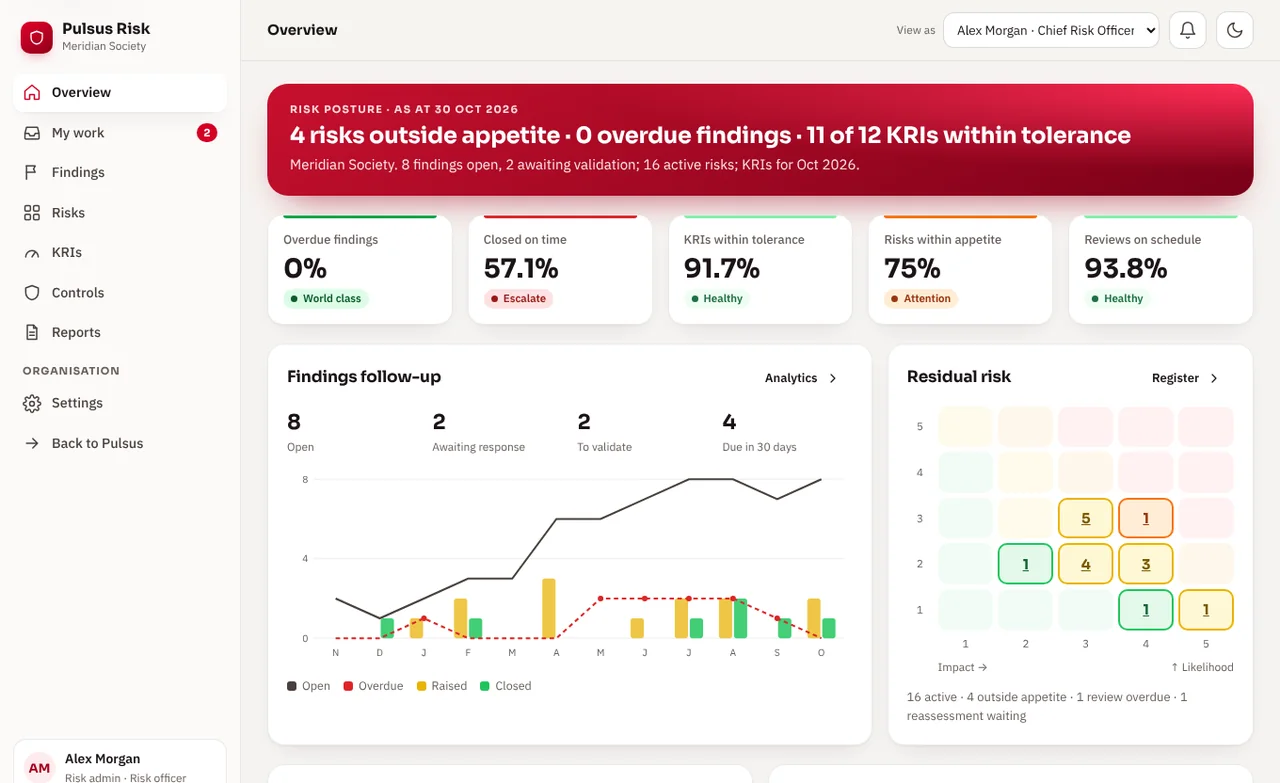
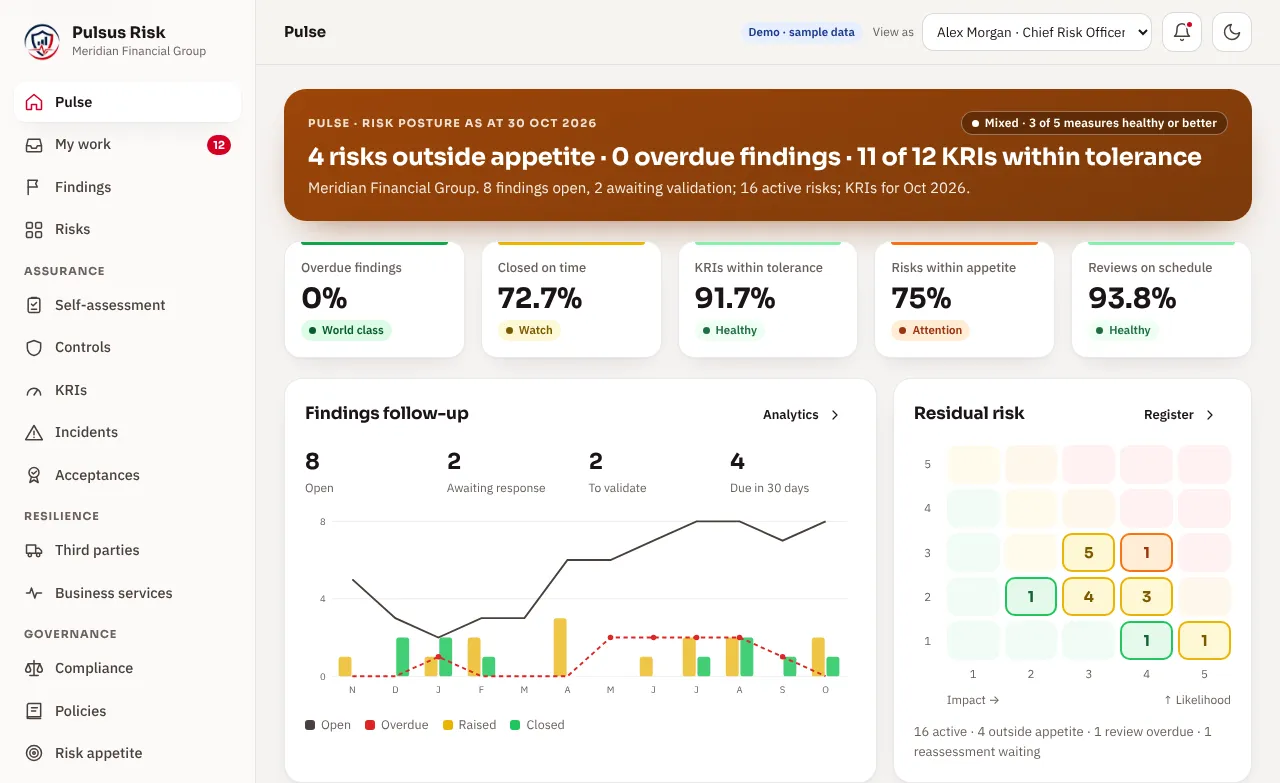
Risk Plans & features: fresh demo screenshots
Claude-Session: https://claude.ai/code/session_01Uwm6ZkpR3p9E4rJsdbscVQ

diff --git a/sites/risk/plans/index.html b/sites/risk/plans/index.html
@@ -195,13 +195,13 @@ main{overflow-x:clip}
  <div><p class="k">What's at stake</p><h2 id="st-h">When a limit is breached, <span>someone will ask who knew.</span></h2>
   <p class="sl">Good risk management is not only knowing the answer. It is being able to show, at any moment, that you knew, that someone owned it, and what was done.</p>
   <ul class="stakes"><li><b>Auditors, inspectors and regulators</b><p>They expect a current view of key risks and a clear record of every finding: who owns it, when it is due, the evidence, and who checked it.</p></li><li><b>The board and its committees</b><p>Members need the same picture every time, judged the same way, not a new deck with new definitions each meeting.</p></li><li><b>Time and exposure</b><p>Every month a finding sits open past its date is a month of exposure. Seeing it early is cheaper than explaining it later.</p></li></ul></div>
- <figure class="rv" style="margin:0"><div class="phonebox"><img src="/sites/risk/assets/p-phone-evidence.webp" width="520" height="789" loading="lazy" decoding="async" alt="A finding on a phone, demonstration data: manual fallback procedures not tested at two branches, in remediation. The owner has ticked off both fallback drills and added a photo as evidence before submitting."></div><figcaption class="shotcap">The owner answers from the floor. Demonstration data.</figcaption></figure>
+ <figure class="rv" style="margin:0"><div class="phonebox"><img src="/sites/risk/assets/p-phone-evidence.webp" width="520" height="789" loading="lazy" decoding="async" alt="A finding on a phone, demonstration data: dealer limits not enforced by the system, high rating, in remediation, with the owner's request to extend the due date waiting for a decision."></div><figcaption class="shotcap">The owner answers from the floor. Demonstration data.</figcaption></figure>
 </section>
 
 <section class="sec" id="features" aria-labelledby="ft-h">
  <p class="k">Features</p><h2 id="ft-h">One register. <span>Every lens on risk.</span></h2>
  <p class="sl">Risks, findings and key risk indicators in one place, linked to each other and to the controls that manage them. Each person sees the part they are responsible for.</p>
- <div class="show"><div class="tabs" role="tablist" aria-label="Pulsus Risk features"><button class="tab" role="tab" id="t-overview" aria-controls="p-overview" aria-selected="true">Overview<small>The whole position, at a glance</small></button><button class="tab" role="tab" id="t-register" aria-controls="p-register" aria-selected="false" tabindex="-1">Risk register<small>Inherent, residual and target</small></button><button class="tab" role="tab" id="t-findings" aria-controls="p-findings" aria-selected="false" tabindex="-1">Findings<small>Audit, regulator, compliance</small></button><button class="tab" role="tab" id="t-kris" aria-controls="p-kris" aria-selected="false" tabindex="-1">Key risk indicators<small>Target, tolerance and limit</small></button><button class="tab" role="tab" id="t-appetite" aria-controls="p-appetite" aria-selected="false" tabindex="-1">Risk appetite<small>From indicator to the board</small></button><button class="tab" role="tab" id="t-mywork" aria-controls="p-mywork" aria-selected="false" tabindex="-1">My work<small>Each person&rsquo;s own inbox</small></button></div><div><div class="panel" role="tabpanel" id="p-overview" aria-labelledby="t-overview" tabindex="0"><p class="no">01 / 06<span class="demo-tag">Demonstration data</span></p><h3>Overview</h3><p>Risks outside appetite, overdue findings and key risk indicators within tolerance, in one line at the top. Below it, findings follow-up month by month and the residual heat-map: click a cell to see the risks in it.</p><div class="shot"><div class="bar" aria-hidden="true"><i></i><i></i><i></i><span>Pulsus Risk · Overview</span></div><img src="/sites/risk/assets/p-overview.webp" width="1280" height="783" decoding="async" alt="The overview, demonstration data, as at 30 October 2026: 4 risks outside appetite, 0 overdue findings and 11 of 12 key risk indicators within tolerance; overdue findings 0%, closed on time 57.1%, KRIs within tolerance 91.7%, risks within appetite 75% and reviews on schedule 93.8%, with a findings follow-up chart and a 5 by 5 residual risk heat-map."></div><ul class="ticks"><li><b>Clickable heat-map</b>, likelihood × impact.</li><li><b>Ageing</b> and on-time closure for findings.</li><li><b>Committee pack</b> in PDF and Excel.</li></ul></div><div class="panel" role="tabpanel" id="p-register" aria-labelledby="t-register" tabindex="0" hidden><p class="no">02 / 06<span class="demo-tag">Demonstration data</span></p><h3>Risk register</h3><p>Every risk with its owner, category and review cycle, rated inherent, residual and target, and judged against the appetite you set for its category. Classify with the Basel event types, your own categories, or both. A new rating takes effect once it is approved.</p><div class="shot"><div class="bar" aria-hidden="true"><i></i><i></i><i></i><span>Pulsus Risk · Risk register</span></div><img src="/sites/risk/assets/p-register.webp" width="1280" height="783" loading="lazy" decoding="async" alt="A risk in the register, unexplained till and vault differences: inherent 12, residual 9 and target 6, within appetite, with a reassessment waiting for approval."></div><ul class="ticks"><li><b>Inherent → residual → target</b> on every risk.</li><li><b>Appetite</b> set per category.</li><li><b>Reassessments approved</b>, never silent.</li></ul></div><div class="panel" role="tabpanel" id="p-findings" aria-labelledby="t-findings" tabindex="0" hidden><p class="no">03 / 06<span class="demo-tag">Demonstration data</span></p><h3>Findings</h3><p>Findings from internal audit, external audit, regulators, compliance assessments and your own teams, in one register. Each has a rating, an owner and a due date, and moves from response to remediation to validation to closed.</p><div class="shot"><div class="bar" aria-hidden="true"><i></i><i></i><i></i><span>Pulsus Risk · Findings</span></div><img src="/sites/risk/assets/p-findings.webp" width="1280" height="783" loading="lazy" decoding="async" alt="The findings register: 8 open findings from internal audit, external audit, regulator, compliance and self-identified sources, each with its rating, owner, due date, status and age, including one with an extension asked and one with its original due date shown."></div><ul class="ticks"><li><b>Every source</b> in one register.</li><li><b>Extensions decided by someone else</b>; the original date is kept.</li><li><b>Ageing and overdue</b> analytics.</li></ul></div><div class="panel" role="tabpanel" id="p-kris" aria-labelledby="t-kris" tabindex="0" hidden><p class="no">04 / 06<span class="demo-tag">Demonstration data</span></p><h3>Key risk indicators</h3><p>Every indicator carries its own target, tolerance and limit, and reads lower-is-better where that is how it works. Each month&rsquo;s value is judged automatically, with twelve months of history beside it.</p><div class="shot"><div class="bar" aria-hidden="true"><i></i><i></i><i></i><span>Pulsus Risk · Key risk indicators</span></div><img src="/sites/risk/assets/p-kris.webp" width="1280" height="783" loading="lazy" decoding="async" alt="Key risk indicators for October 2026: 11 on target, 0 within tolerance, 1 outside tolerance and 0 limit breaches, each with its value, target, tolerance, limit and a 12-month trend line."></div><ul class="ticks"><li><b>Your thresholds</b>, set per indicator.</li><li><b>Four statuses</b>, judged the same way every month.</li><li><b>12-month history</b> for each.</li></ul></div><div class="panel" role="tabpanel" id="p-appetite" aria-labelledby="t-appetite" tabindex="0" hidden><p class="no">05 / 06<span class="demo-tag">Demonstration data</span></p><h3>Risk appetite</h3><p>Appetite statements by category, and where appetite is exceeded. A risk outside its appetite, or an indicator past tolerance, is carried up to the category it belongs to, so the committee sees which appetite is at its limit and why.</p><div class="shot"><div class="bar" aria-hidden="true"><i></i><i></i><i></i><span>Pulsus Risk · Risk appetite</span></div><img src="/sites/risk/assets/appetite-desk.webp" width="1280" height="800" loading="lazy" decoding="async" alt="The risk appetite screen: the appetite statement, 3 categories with appetite exceeded, 1 at the limit and 4 within, with the Operational category at the limit because K-002 is outside tolerance."></div><ul class="ticks"><li><b>Statements</b> by category.</li><li><b>Exceeded, at the limit, within</b>, at a glance.</li><li><b>The same reading</b> in the committee pack.</li></ul></div><div class="panel" role="tabpanel" id="p-mywork" aria-labelledby="t-mywork" tabindex="0" hidden><p class="no">06 / 06<span class="demo-tag">Demonstration data</span></p><h3>My work</h3><p>Each person opens Pulsus Risk to what is waiting for them: findings to answer, evidence to add, remediations to validate, extensions to decide and reassessments to approve. Reminders and escalations arrive here too.</p><div class="shot"><div class="bar" aria-hidden="true"><i></i><i></i><i></i><span>Pulsus Risk · My work</span></div><img src="/sites/risk/assets/p-inbox.webp" width="1280" height="783" loading="lazy" decoding="async" alt="My work for the chief risk officer: two things waiting, an extension to decide on a high-rated finding and a risk reassessment to approve."></div><ul class="ticks"><li><b>One inbox</b> per person.</li><li><b>Reminders</b> before due, on due and overdue.</li><li><b>Escalation</b> to the manager, then the sponsor.</li></ul></div></div></div>
+ <div class="show"><div class="tabs" role="tablist" aria-label="Pulsus Risk features"><button class="tab" role="tab" id="t-overview" aria-controls="p-overview" aria-selected="true">Overview<small>The whole position, at a glance</small></button><button class="tab" role="tab" id="t-register" aria-controls="p-register" aria-selected="false" tabindex="-1">Risk register<small>Inherent, residual and target</small></button><button class="tab" role="tab" id="t-findings" aria-controls="p-findings" aria-selected="false" tabindex="-1">Findings<small>Audit, regulator, compliance</small></button><button class="tab" role="tab" id="t-kris" aria-controls="p-kris" aria-selected="false" tabindex="-1">Key risk indicators<small>Target, tolerance and limit</small></button><button class="tab" role="tab" id="t-appetite" aria-controls="p-appetite" aria-selected="false" tabindex="-1">Risk appetite<small>From indicator to the board</small></button><button class="tab" role="tab" id="t-mywork" aria-controls="p-mywork" aria-selected="false" tabindex="-1">My work<small>Each person&rsquo;s own inbox</small></button></div><div><div class="panel" role="tabpanel" id="p-overview" aria-labelledby="t-overview" tabindex="0"><p class="no">01 / 06<span class="demo-tag">Demonstration data</span></p><h3>Overview</h3><p>Risks outside appetite, overdue findings and key risk indicators within tolerance, in one line at the top. Below it, findings follow-up month by month and the residual heat-map: click a cell to see the risks in it.</p><div class="shot"><div class="bar" aria-hidden="true"><i></i><i></i><i></i><span>Pulsus Risk · Overview</span></div><img src="/sites/risk/assets/p-overview.webp" width="1280" height="783" decoding="async" alt="The Pulse, demonstration data, as at 30 October 2026: 4 risks outside appetite, 0 overdue findings and 11 of 12 key risk indicators within tolerance; overdue findings 0%, closed on time 72.7%, KRIs within tolerance 91.7%, risks within appetite 75% and reviews on schedule 93.8%, with a findings follow-up chart and a 5 by 5 residual risk heat-map."></div><ul class="ticks"><li><b>Clickable heat-map</b>, likelihood × impact.</li><li><b>Ageing</b> and on-time closure for findings.</li><li><b>Committee pack</b> in PDF and Excel.</li></ul></div><div class="panel" role="tabpanel" id="p-register" aria-labelledby="t-register" tabindex="0" hidden><p class="no">02 / 06<span class="demo-tag">Demonstration data</span></p><h3>Risk register</h3><p>Every risk with its owner, category and review cycle, rated inherent, residual and target, and judged against the appetite you set for its category. Classify with the Basel event types, your own categories, or both. A new rating takes effect once it is approved.</p><div class="shot"><div class="bar" aria-hidden="true"><i></i><i></i><i></i><span>Pulsus Risk · Risk register</span></div><img src="/sites/risk/assets/p-register.webp" width="1280" height="783" loading="lazy" decoding="async" alt="The risk register, demonstration data: a residual risk heat-map beside the risk appetite by category, with liquidity, compliance and technology each over appetite."></div><ul class="ticks"><li><b>Inherent → residual → target</b> on every risk.</li><li><b>Appetite</b> set per category.</li><li><b>Reassessments approved</b>, never silent.</li></ul></div><div class="panel" role="tabpanel" id="p-findings" aria-labelledby="t-findings" tabindex="0" hidden><p class="no">03 / 06<span class="demo-tag">Demonstration data</span></p><h3>Findings</h3><p>Findings from internal audit, external audit, regulators, compliance assessments and your own teams, in one register. Each has a rating, an owner and a due date, and moves from response to remediation to validation to closed.</p><div class="shot"><div class="bar" aria-hidden="true"><i></i><i></i><i></i><span>Pulsus Risk · Findings</span></div><img src="/sites/risk/assets/p-findings.webp" width="1280" height="783" loading="lazy" decoding="async" alt="Findings, demonstration data: 8 open findings from internal audit, external audit, regulators and self-identified reviews, each with its rating, owner, due date and status."></div><ul class="ticks"><li><b>Every source</b> in one register.</li><li><b>Extensions decided by someone else</b>; the original date is kept.</li><li><b>Ageing and overdue</b> analytics.</li></ul></div><div class="panel" role="tabpanel" id="p-kris" aria-labelledby="t-kris" tabindex="0" hidden><p class="no">04 / 06<span class="demo-tag">Demonstration data</span></p><h3>Key risk indicators</h3><p>Every indicator carries its own target, tolerance and limit, and reads lower-is-better where that is how it works. Each month&rsquo;s value is judged automatically, with twelve months of history beside it.</p><div class="shot"><div class="bar" aria-hidden="true"><i></i><i></i><i></i><span>Pulsus Risk · Key risk indicators</span></div><img src="/sites/risk/assets/p-kris.webp" width="1280" height="783" loading="lazy" decoding="async" alt="Key risk indicators, demonstration data: 11 on target and 1 outside tolerance, each with its value, target, tolerance, limit and 12-month trend."></div><ul class="ticks"><li><b>Your thresholds</b>, set per indicator.</li><li><b>Four statuses</b>, judged the same way every month.</li><li><b>12-month history</b> for each.</li></ul></div><div class="panel" role="tabpanel" id="p-appetite" aria-labelledby="t-appetite" tabindex="0" hidden><p class="no">05 / 06<span class="demo-tag">Demonstration data</span></p><h3>Risk appetite</h3><p>Appetite statements by category, and where appetite is exceeded. A risk outside its appetite, or an indicator past tolerance, is carried up to the category it belongs to, so the committee sees which appetite is at its limit and why.</p><div class="shot"><div class="bar" aria-hidden="true"><i></i><i></i><i></i><span>Pulsus Risk · Risk appetite</span></div><img src="/sites/risk/assets/appetite-desk.webp" width="1280" height="800" loading="lazy" decoding="async" alt="The risk appetite screen: the appetite statement, 3 categories with appetite exceeded, 1 at the limit and 4 within, with the Operational category at the limit because K-002 is outside tolerance."></div><ul class="ticks"><li><b>Statements</b> by category.</li><li><b>Exceeded, at the limit, within</b>, at a glance.</li><li><b>The same reading</b> in the committee pack.</li></ul></div><div class="panel" role="tabpanel" id="p-mywork" aria-labelledby="t-mywork" tabindex="0" hidden><p class="no">06 / 06<span class="demo-tag">Demonstration data</span></p><h3>My work</h3><p>Each person opens Pulsus Risk to what is waiting for them: findings to answer, evidence to add, remediations to validate, extensions to decide and reassessments to approve. Reminders and escalations arrive here too.</p><div class="shot"><div class="bar" aria-hidden="true"><i></i><i></i><i></i><span>Pulsus Risk · My work</span></div><img src="/sites/risk/assets/p-inbox.webp" width="1280" height="783" loading="lazy" decoding="async" alt="My work, demonstration data: 12 things waiting, including supplier reviews, a policy to approve and a scenario to review."></div><ul class="ticks"><li><b>One inbox</b> per person.</li><li><b>Reminders</b> before due, on due and overdue.</li><li><b>Escalation</b> to the manager, then the sponsor.</li></ul></div></div></div>
 </section>
 
 <section class="sec" id="flow" aria-labelledby="fl-h">
